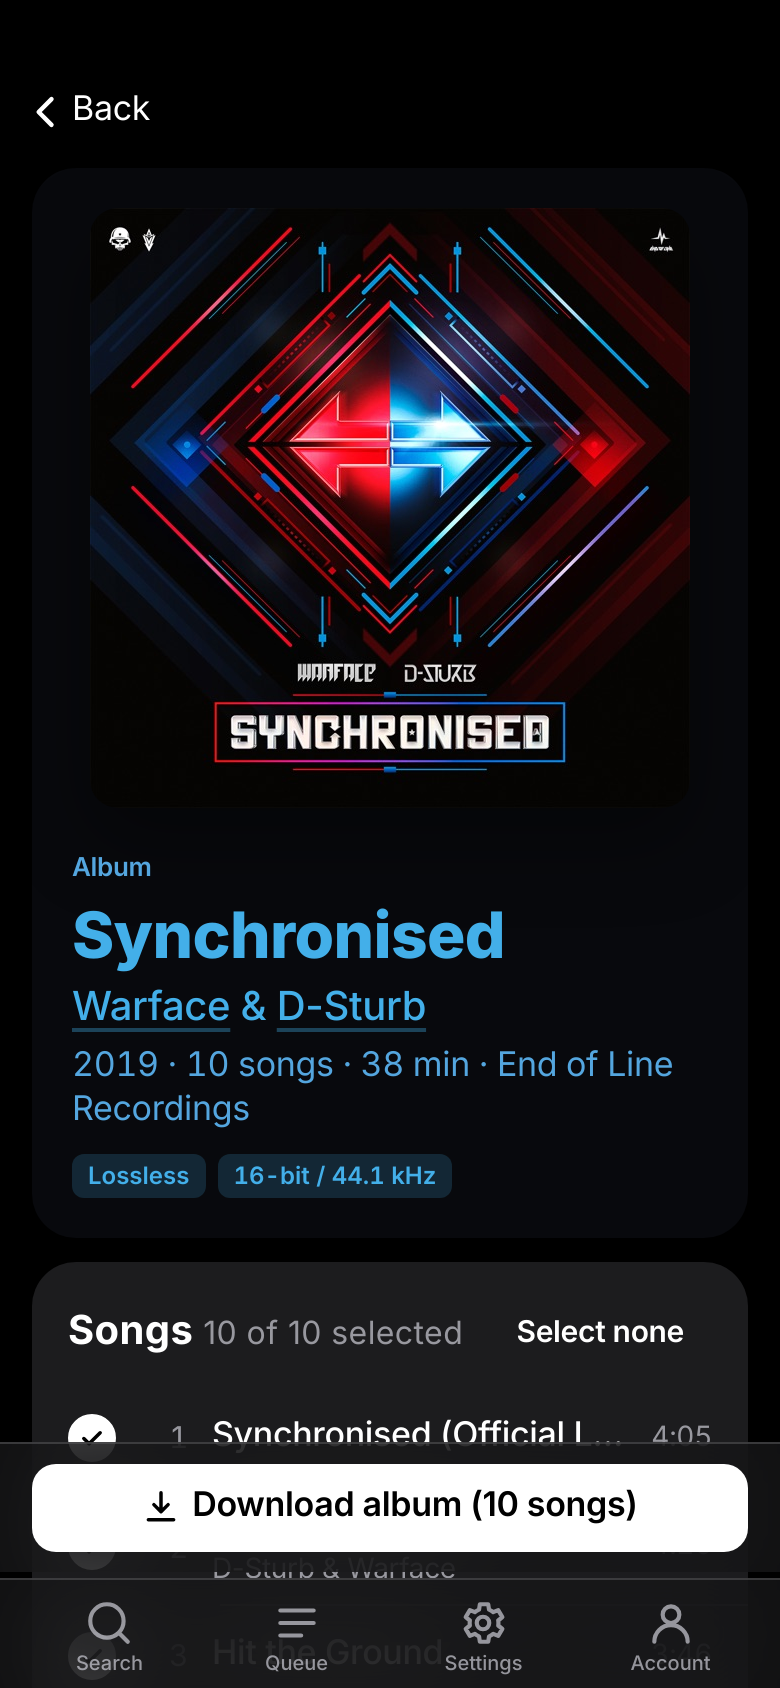
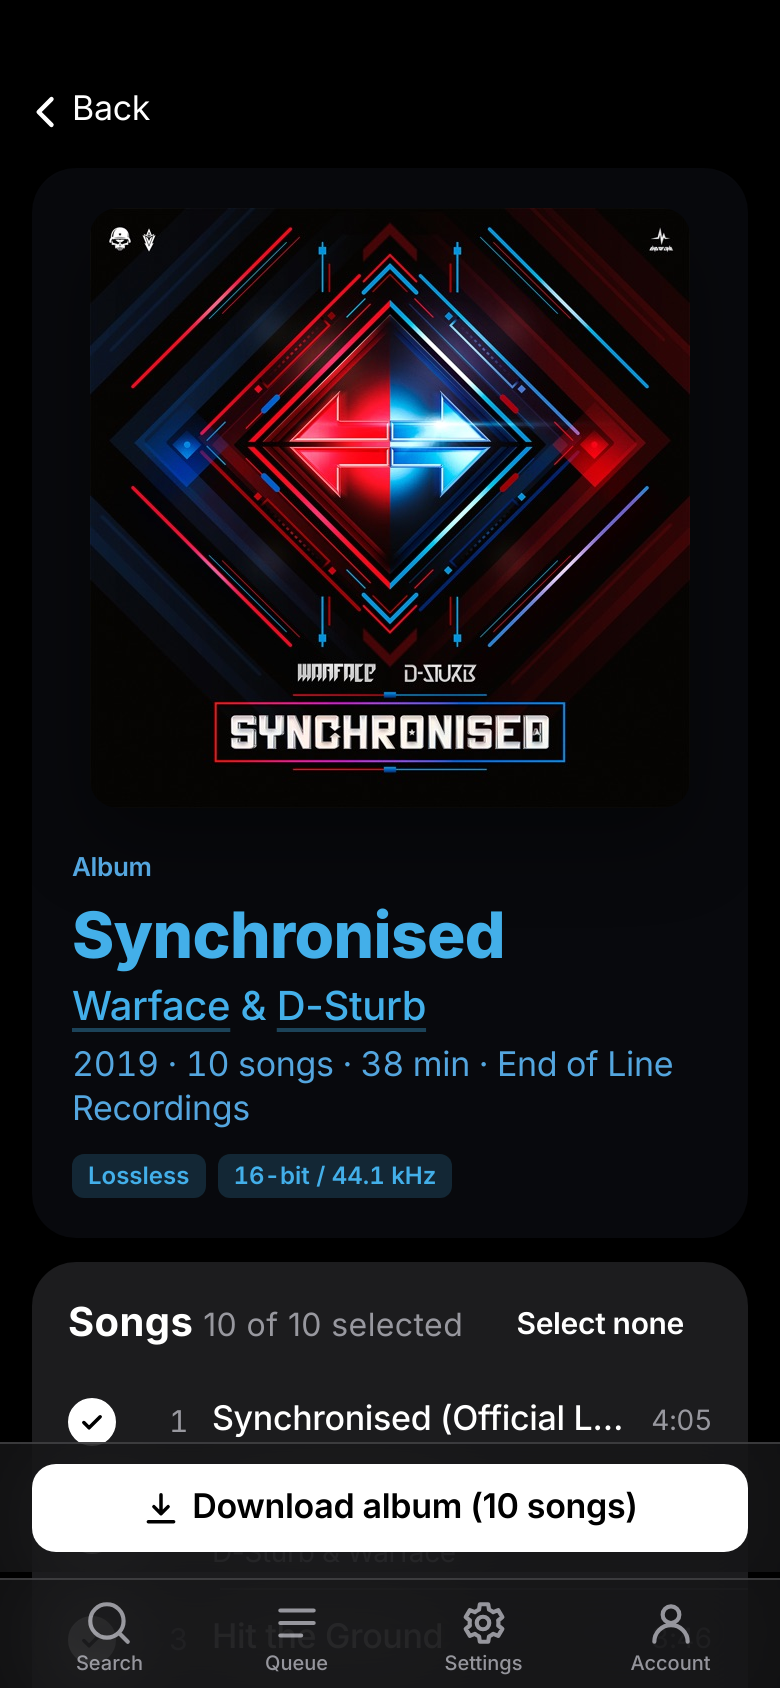
Even insets inside tiles; the bottom bar rests on the window's edge
Content keeps the same distance from all four edges of a tile: lists reach
the side edges but no longer run into the bottom padding, heading bars are no
taller than their heading, a tile taller than its content keeps the content
under its heading, and the first and last setting keep only the tile's
padding. A page with a download or save bar fills the window, so the bar
rests on the bottom edge (or the tab bar) when the page is short or scrolled
to its end. README screenshots retaken.

diff --git a/app/frontend/src/styles.css b/app/frontend/src/styles.css
@@ -289,6 +289,31 @@ a {
     padding: 0 32px 120px;
   }
 }
+/* A page ending in a bar that sticks to the bottom (download, save) has no
+   room below the bar: at the end of the page it rests on the window's edge,
+   or on the tab bar on phones. */
+.main:has(.actionbar, .savebar) {
+  padding-bottom: calc(58px + env(safe-area-inset-bottom, 0px));
+}
+/* Such a page fills the window, so the bar reaches its bottom edge also when
+   the page is shorter than the window. */
+.page:has(> .actionbar, > .savebar) {
+  display: flex;
+  flex-direction: column;
+  min-height: calc(100dvh - 58px - env(safe-area-inset-bottom, 0px));
+}
+.page > .actionbar,
+.page > .savebar {
+  margin-top: auto;
+}
+@media (min-width: 760px) {
+  .main:has(.actionbar, .savebar) {
+    padding-bottom: 0;
+  }
+  .page:has(> .actionbar, > .savebar) {
+    min-height: 100dvh;
+  }
+}
 .brand {
   display: flex;
   align-items: center;
@@ -477,6 +502,10 @@ h1 {
   grid-column: auto;
   grid-row: auto;
 }
+/* Inside a tile, content keeps --pad from all four edges: lists reach the
+   side edges (for their separators and highlight), never the bottom one. A
+   tile taller than its content (beside a taller one) keeps the content under
+   its heading; the extra height stays below. */
 .tile {
   position: relative;
   min-width: 0;
@@ -523,7 +552,11 @@ a.tile:active {
   align-items: center;
   justify-content: space-between;
   gap: 8px;
-  min-height: 34px;
+}
+/* A heading's buttons keep their size to tap, without making the bar taller
+   than the heading. */
+.tile-bar .btn {
+  margin-block: -10px;
 }
 .tile-bar h2,
 .tile-bar h3 {
@@ -984,8 +1017,9 @@ textarea.field-input {
   display: grid;
   margin: 0 calc(var(--pad) * -1);
 }
+/* The last row ends --pad from the tile's edge: its own padding (8 px) and the rest. */
 .list:last-child {
-  margin-bottom: calc(var(--pad) * -1);
+  margin-bottom: -8px;
 }
 .row {
   position: relative;
@@ -1291,7 +1325,6 @@ button.row {
   display: grid;
   gap: 14px;
   grid-template-columns: minmax(0, 1fr);
-  height: 100%;
 }
 .top-result .cover {
   max-width: 260px;
@@ -1550,6 +1583,13 @@ button.row {
 }
 .setting + .setting {
   border-top: 0.5px solid var(--sep);
+}
+/* The first and last setting in a tile keep only the tile's own padding. */
+.tile > div:first-child > .setting:first-child {
+  padding-top: 0;
+}
+.setting:last-child {
+  padding-bottom: 0;
 }
 .setting-text {
   flex: 1 1 220px;
